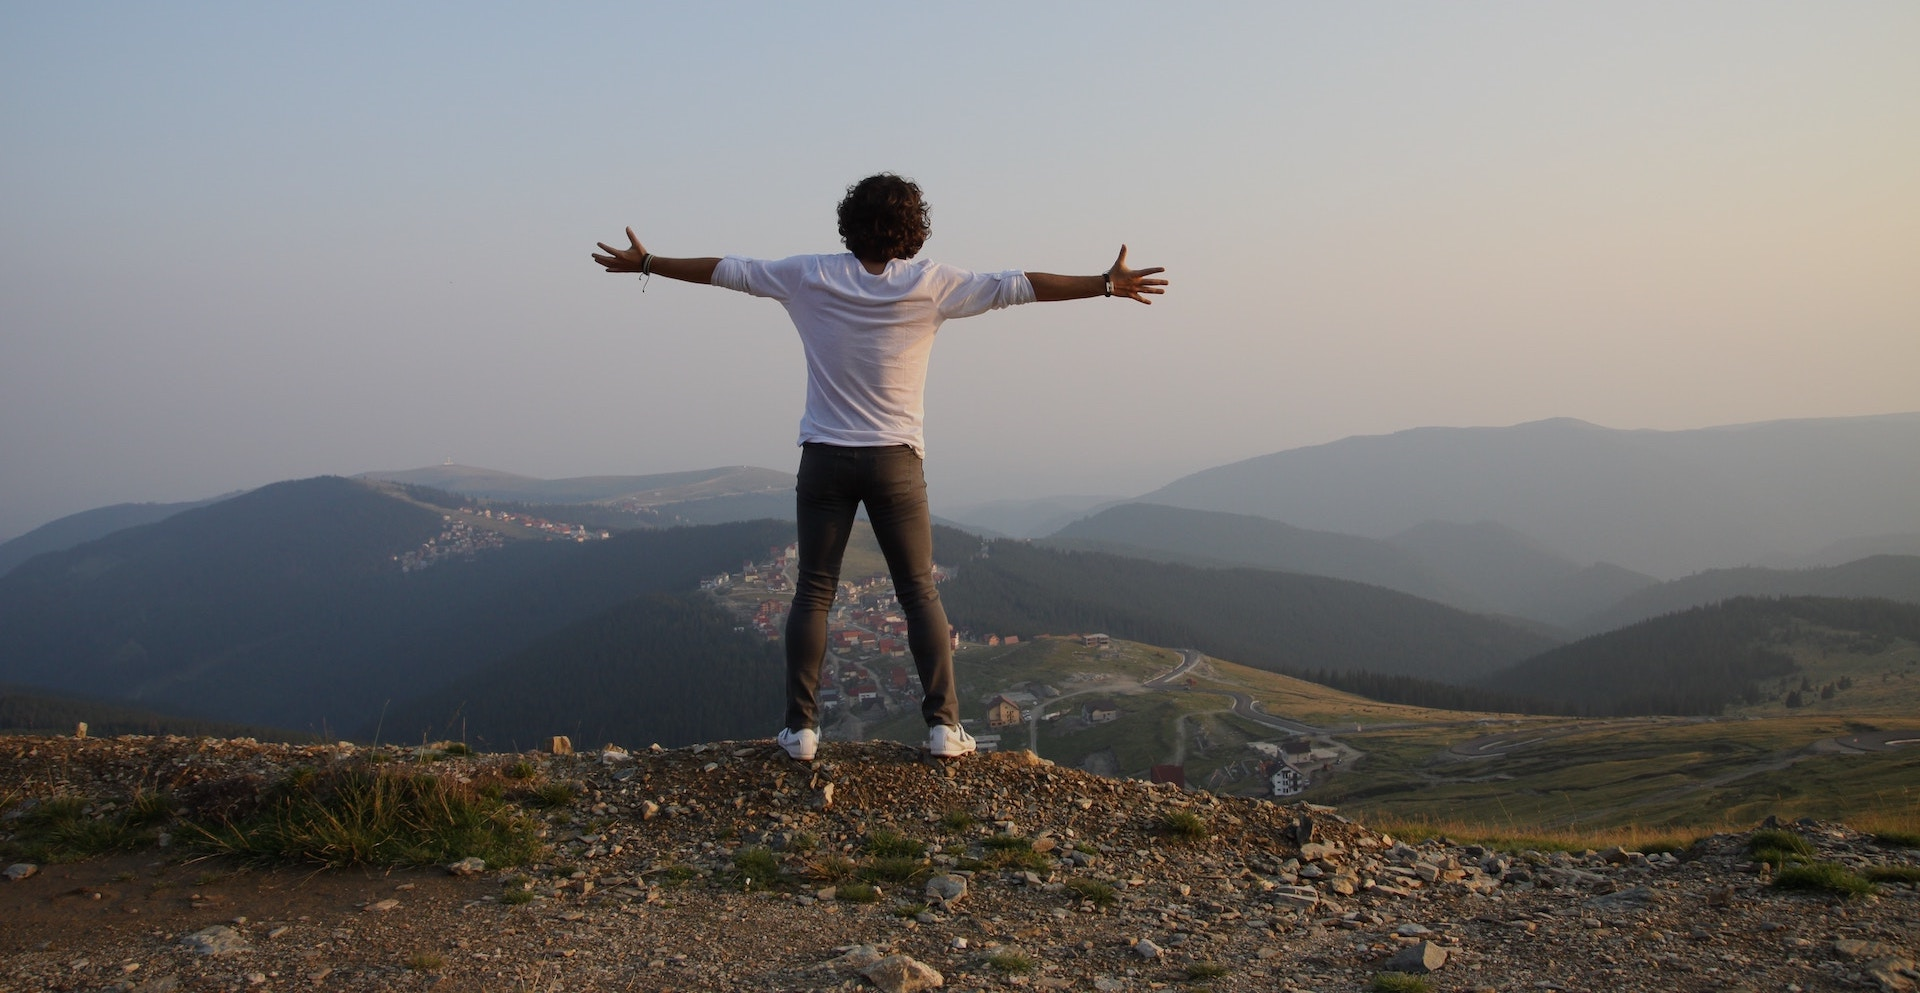
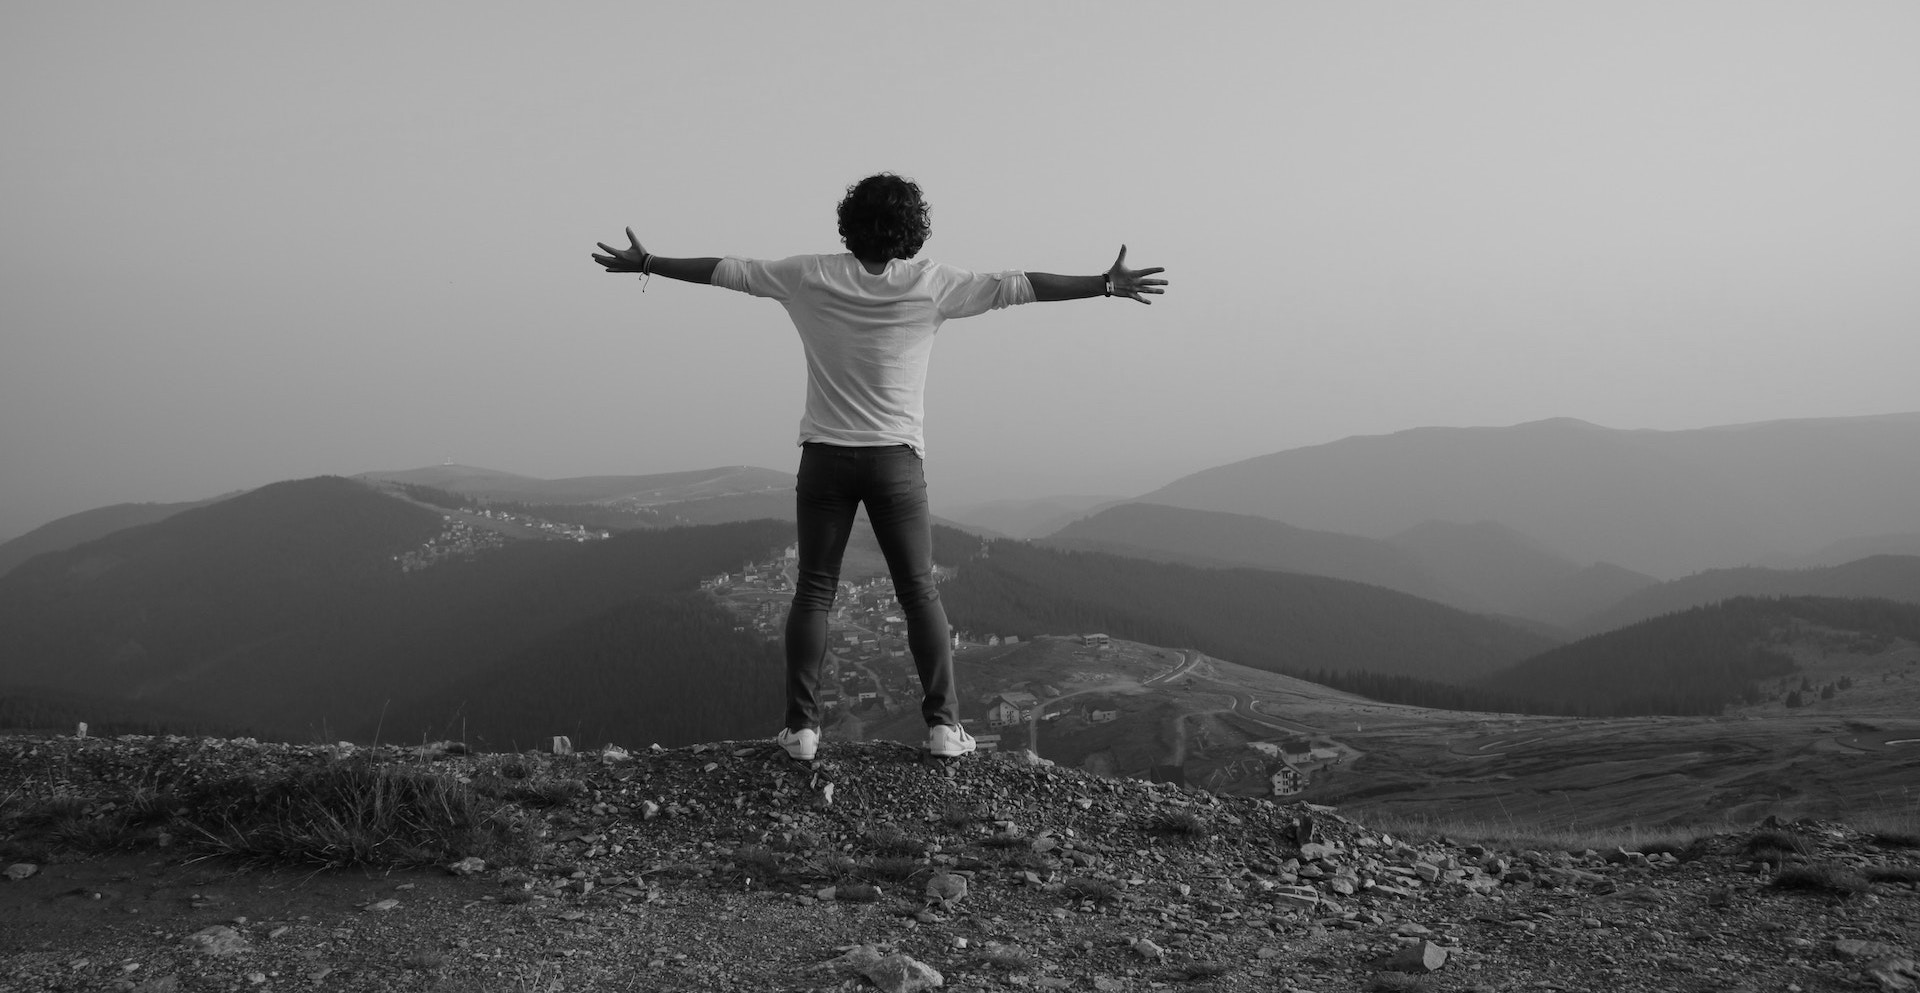
ajouts elems personalisés

diff --git a/src/components/priceLandingComponent.js b/src/components/priceLandingComponent.js
@@ -1,5 +1,5 @@
 import React from "react"
-import { Link } from "gatsby"
+import { useStaticQuery, Link } from "gatsby"
 import "bootstrap/dist/css/bootstrap.min.css"
 import { Row, Image, Col, Button } from "react-bootstrap"
 
@@ -7,11 +7,16 @@ import Title from "./Title"
 import ImagePrice from "../images/prices.png"
 
 function PriceLandingPage() {
+  const { html } = usePriceTextParagraph()
   return (
     <Row style={{ margin: "0 auto" }}>
       <Col>
         <Title title={"Nos Tarifs"} />
-        <p>blabla...</p>
+        <p
+          dangerouslySetInnerHTML={{
+            __html: html,
+          }}
+        />
         <Link style={{ boxShadow: `none` }} to={"pricePage"}>
           <Button variant="outline-primary">
             Plus de détails sur nos prix
@@ -24,5 +29,26 @@ function PriceLandingPage() {
     </Row>
   )
 }
-
 export default PriceLandingPage
+
+const usePriceTextParagraph = () => {
+  const { allContentfulPriceParagraph } = useStaticQuery(
+    graphql`
+      query {
+        allContentfulPriceParagraph {
+          edges {
+            node {
+              priceParagraph {
+                childMarkdownRemark {
+                  html
+                }
+              }
+            }
+          }
+        }
+      }
+    `
+  )
+  return allContentfulPriceParagraph.edges[0].node.priceParagraph
+    .childMarkdownRemark
+}

diff --git a/src/pages/pricePage.js b/src/pages/pricePage.js
@@ -1,16 +1,29 @@
 import React from "react"
 import { Container } from "react-bootstrap"
+import { Image } from "react-bootstrap"
+
+import ImagePrice from "../images/pricePage.png"
 
 import Layout from "../components/layout"
 import SEO from "../components/seo"
 import MainImage from "../components/mainImage"
 import GetRichText from "../components/getRichText"
 
+const fullWidth = {
+  width: "100vw",
+  position: "relative",
+  left: "50%",
+  right: "50%",
+  marginLeft: "-50vw",
+  marginRight: "-50vw",
+}
+
 export default props => (
   <Layout location={props.location}>
     <SEO title="Nos Prix" />
-    <MainImage location={props.location} />
+    {/* <MainImage location={props.location} /> */}
     <Container style={{ margin: "0 auto", position: "relative" }}>
+      <Image src={ImagePrice} style={fullWidth} />
       <GetRichText location={props.location} />
     </Container>
   </Layout>

diff --git a/src/components/layout.js b/src/components/layout.js
@@ -13,10 +13,10 @@ class Layout extends React.Component {
     let socialButtonGroup = (
       <ButtonGroup>
         <div>
-          <a href="https://instagram.com" target="_blank">
-            <Icon path={mdiInstagram} title="insta" size={1} color="#F9A825" />
+          <a href="https://www.instagram.com/stimbodyfit/" target="_blank">
+            <Icon path={mdiInstagram} title="insta" size={1} color="red" />
           </a>
-          <a href="https://facebook.com" target="_blank">
+          <a href="https://www.facebook.com/body.fit.982" target="_blank">
             <Icon path={mdiFacebookBox} title="fb" size={1} color="#1565C0" />
           </a>
         </div>

diff --git a/src/components/argumentItem.js b/src/components/argumentItem.js
@@ -44,8 +44,7 @@ function ArgumentItem(props) {
           <p
             style={{
               textAlign: "-webkit-auto",
-              marginLeft: "-4em",
-              maxHeight: "9.3em",
+              maxHeight: "10.3em",
               overflow: "hidden",
               textOverflow: "ellipsis",
             }}
@@ -64,7 +63,7 @@ function ArgumentItem(props) {
             style={{
               textAlign: "-webkit-right",
               marginLeft: "-2em",
-              maxHeight: "9.3em",
+              maxHeight: "10.3em",
               overflow: "hidden",
               textOverflow: "ellipsis",
             }}

diff --git a/src/components/carouselComponent.js b/src/components/carouselComponent.js
@@ -70,9 +70,8 @@ function CarousselComponent() {
                 <div
                   style={{
                     margin: "0 auto",
-                    background: "white",
-                    width: "430px",
-                    height: "650px",
+                    display: "block",
+                    width: "30vw",
                   }}
                 >
                   <Img fluid={coachImage} alt={name} />

diff --git a/src/components/getRichText.js b/src/components/getRichText.js
@@ -45,13 +45,11 @@ function GetRichText(props) {
   const data = getPath === "/pricePage" ? PriceText : TechText
 
   let displayRichText = (
-    <Row>
-      <section
-        dangerouslySetInnerHTML={{
-          __html: data,
-        }}
-      />
-    </Row>
+    <Row
+      dangerouslySetInnerHTML={{
+        __html: data,
+      }}
+    ></Row>
   )
 
   return <>{displayRichText}</>

diff --git a/src/components/mainImage.js b/src/components/mainImage.js
@@ -86,9 +86,9 @@ function MainImage(props) {
           <Card.Img
             alt={textImage}
             src={srcImage}
-            style={{
-              filter: "grayscale(100%)",
-            }}
+            // style={{
+            //   filter: "grayscale(100%)",
+            // }}
           />
           <Card.ImgOverlay style={{ paddingTop: "20%" }}>
             <Card.Title>

diff --git a/src/components/blogItem.js b/src/components/blogItem.js
@@ -10,7 +10,7 @@ function BlogItem(props) {
   const description = data.description.childMarkdownRemark.rawMarkdownBody
   return (
     <Col>
-      <Card style={{ width: "18rem" }}>
+      <Card style={{ width: "21rem" }}>
         <div>
           <Link style={{ boxShadow: `none` }} to={"/blog/" + data.slug}>
             <Card.Img variant="top" src={data.image.fluid.src} />
